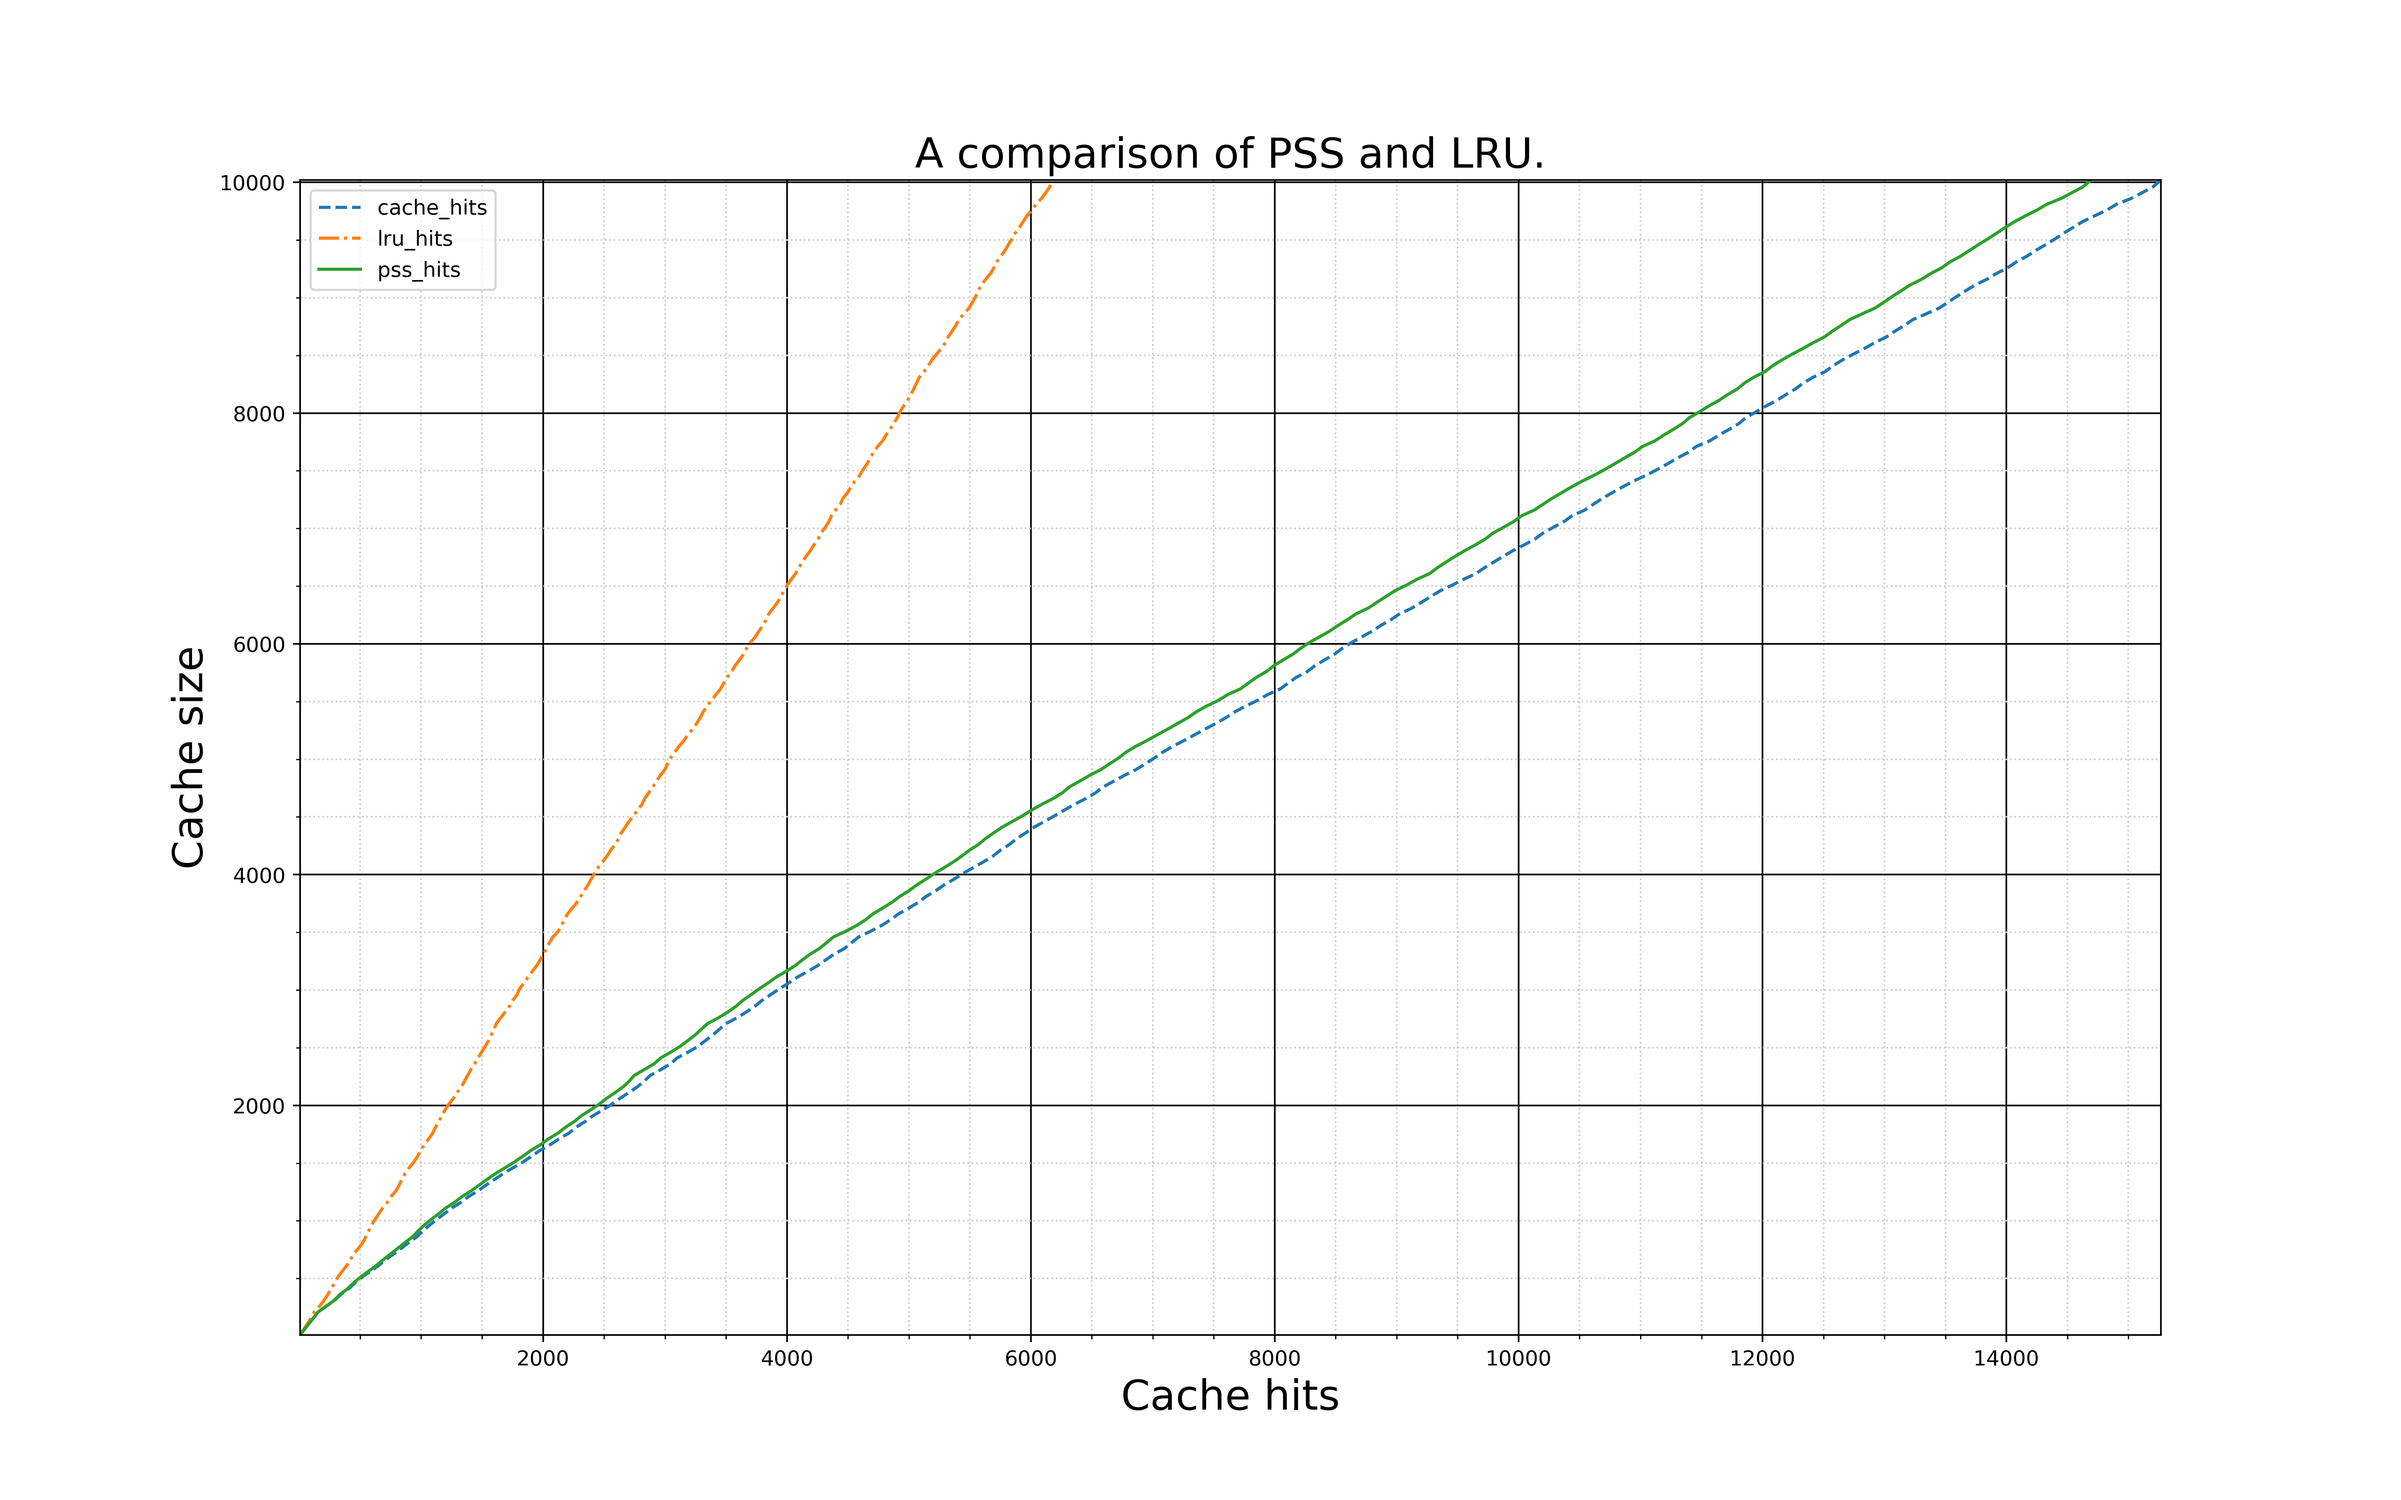
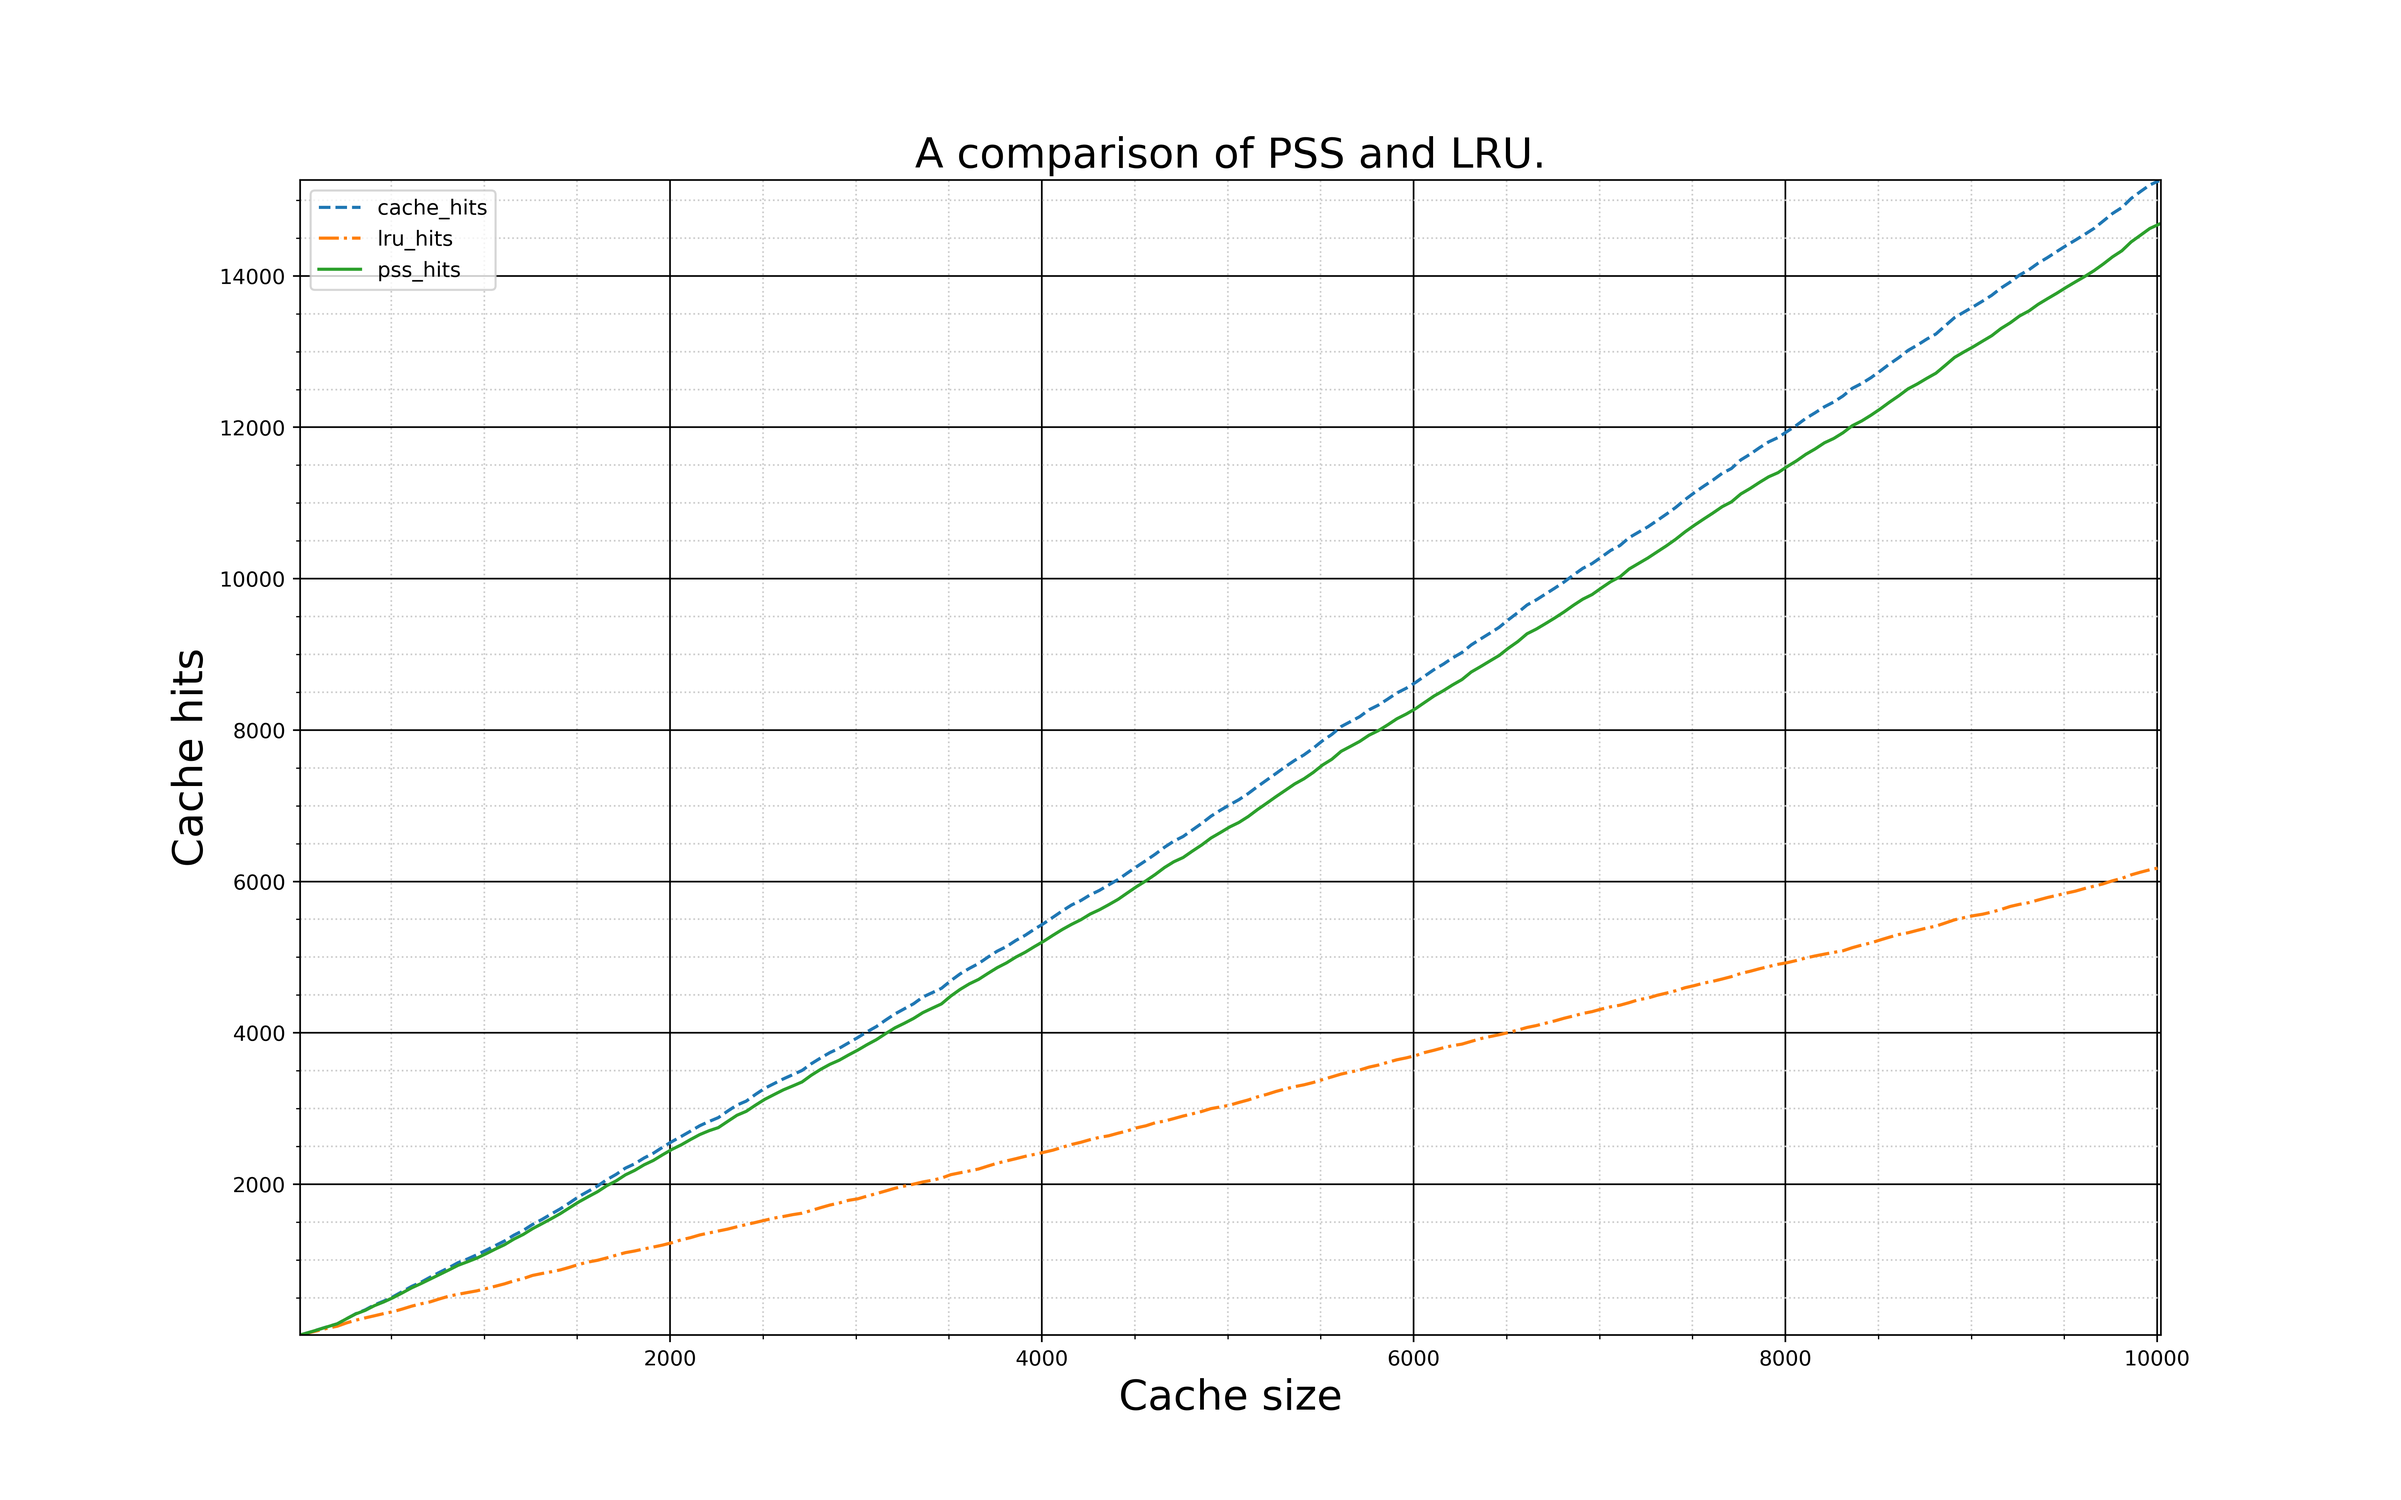
fix lables

diff --git a/graph/cache_graph.py b/graph/cache_graph.py
@@ -6,40 +6,33 @@ import matplotlib.lines as mlines
 
 
 data_array = numpy.loadtxt('data.txt', dtype = int)
-data_y_cache_size = []
-data_x_cache_hits = []
-data_x_pss_hits = []
-data_x_lru_hits = []
+data_x_cache_size = []
+data_y_cache_hits = []
+data_y_pss_hits = []
+data_y_lru_hits = []
 for i in range(int(data_array.size / 4)):
-    data_y_cache_size.append(data_array[i][0])
-    data_x_cache_hits.append(data_array[i][1])
-    data_x_pss_hits.append(data_array[i][2])
-    data_x_lru_hits.append(data_array[i][3])
+    data_x_cache_size.append(data_array[i][0])
+    data_y_cache_hits.append(data_array[i][1])
+    data_y_pss_hits.append(data_array[i][2])
+    data_y_lru_hits.append(data_array[i][3])
 
 
 fig, ax = pyplot.subplots(figsize = (16, 10), dpi = 400, linewidth = 2) 
 
-ax.plot(data_x_cache_hits, data_y_cache_size, '--', label = 'cache_hits')
-ax.plot(data_x_lru_hits, data_y_cache_size, '-.', label = 'LRU')
-ax.plot(data_x_pss_hits, data_y_cache_size, '-', label = 'PSS')
+ax.plot(data_x_cache_size, data_y_cache_hits, '--', label = 'cache_hits')
+ax.plot(data_x_cache_size, data_y_lru_hits, '-.', label = 'LRU')
+ax.plot(data_x_cache_size, data_y_pss_hits, '-', label = 'PSS')
 pyplot.legend(("cache_hits", "lru_hits", "pss_hits"))
 
-ax.set_ylabel("Cache size", size = 20) 
-ax.set_xlabel("Cache hits", size = 20) 
-ax.axis([data_x_cache_hits[0], data_x_cache_hits[len(data_x_cache_hits) - 1] + 10, data_y_cache_size[0], data_y_cache_size[len(data_y_cache_size) - 1] + 10])
+ax.set_xlabel("Cache size", size = 20) 
+ax.set_ylabel("Cache hits", size = 20) 
 
-
+ax.axis([data_x_cache_size[0], data_x_cache_size[len(data_x_cache_size) - 1] + 10, data_y_cache_hits[0], data_y_cache_hits[len(data_y_cache_hits) - 1] + 10])
 ax.set_title('A comparison of PSS and LRU.', size = 20, loc = 'center') 
 
-
-
 ax.grid(which='major', color = 'k')
-ax.minorticks_on() 
+ax.minorticks_on()
 ax.grid(which='minor', color = '0.8', linestyle = ':') 
-
-# ax.plot(data_t, data, c ='m', linewidth = 1, label = 'V(t)') 
-# ax.scatter(data_t[0:data.size:20], data[0:data.size:20], marker = 's', c = 'm', s = 10) 
-
 
 fig.savefig("cache_graph.png")
 pyplot.show()
